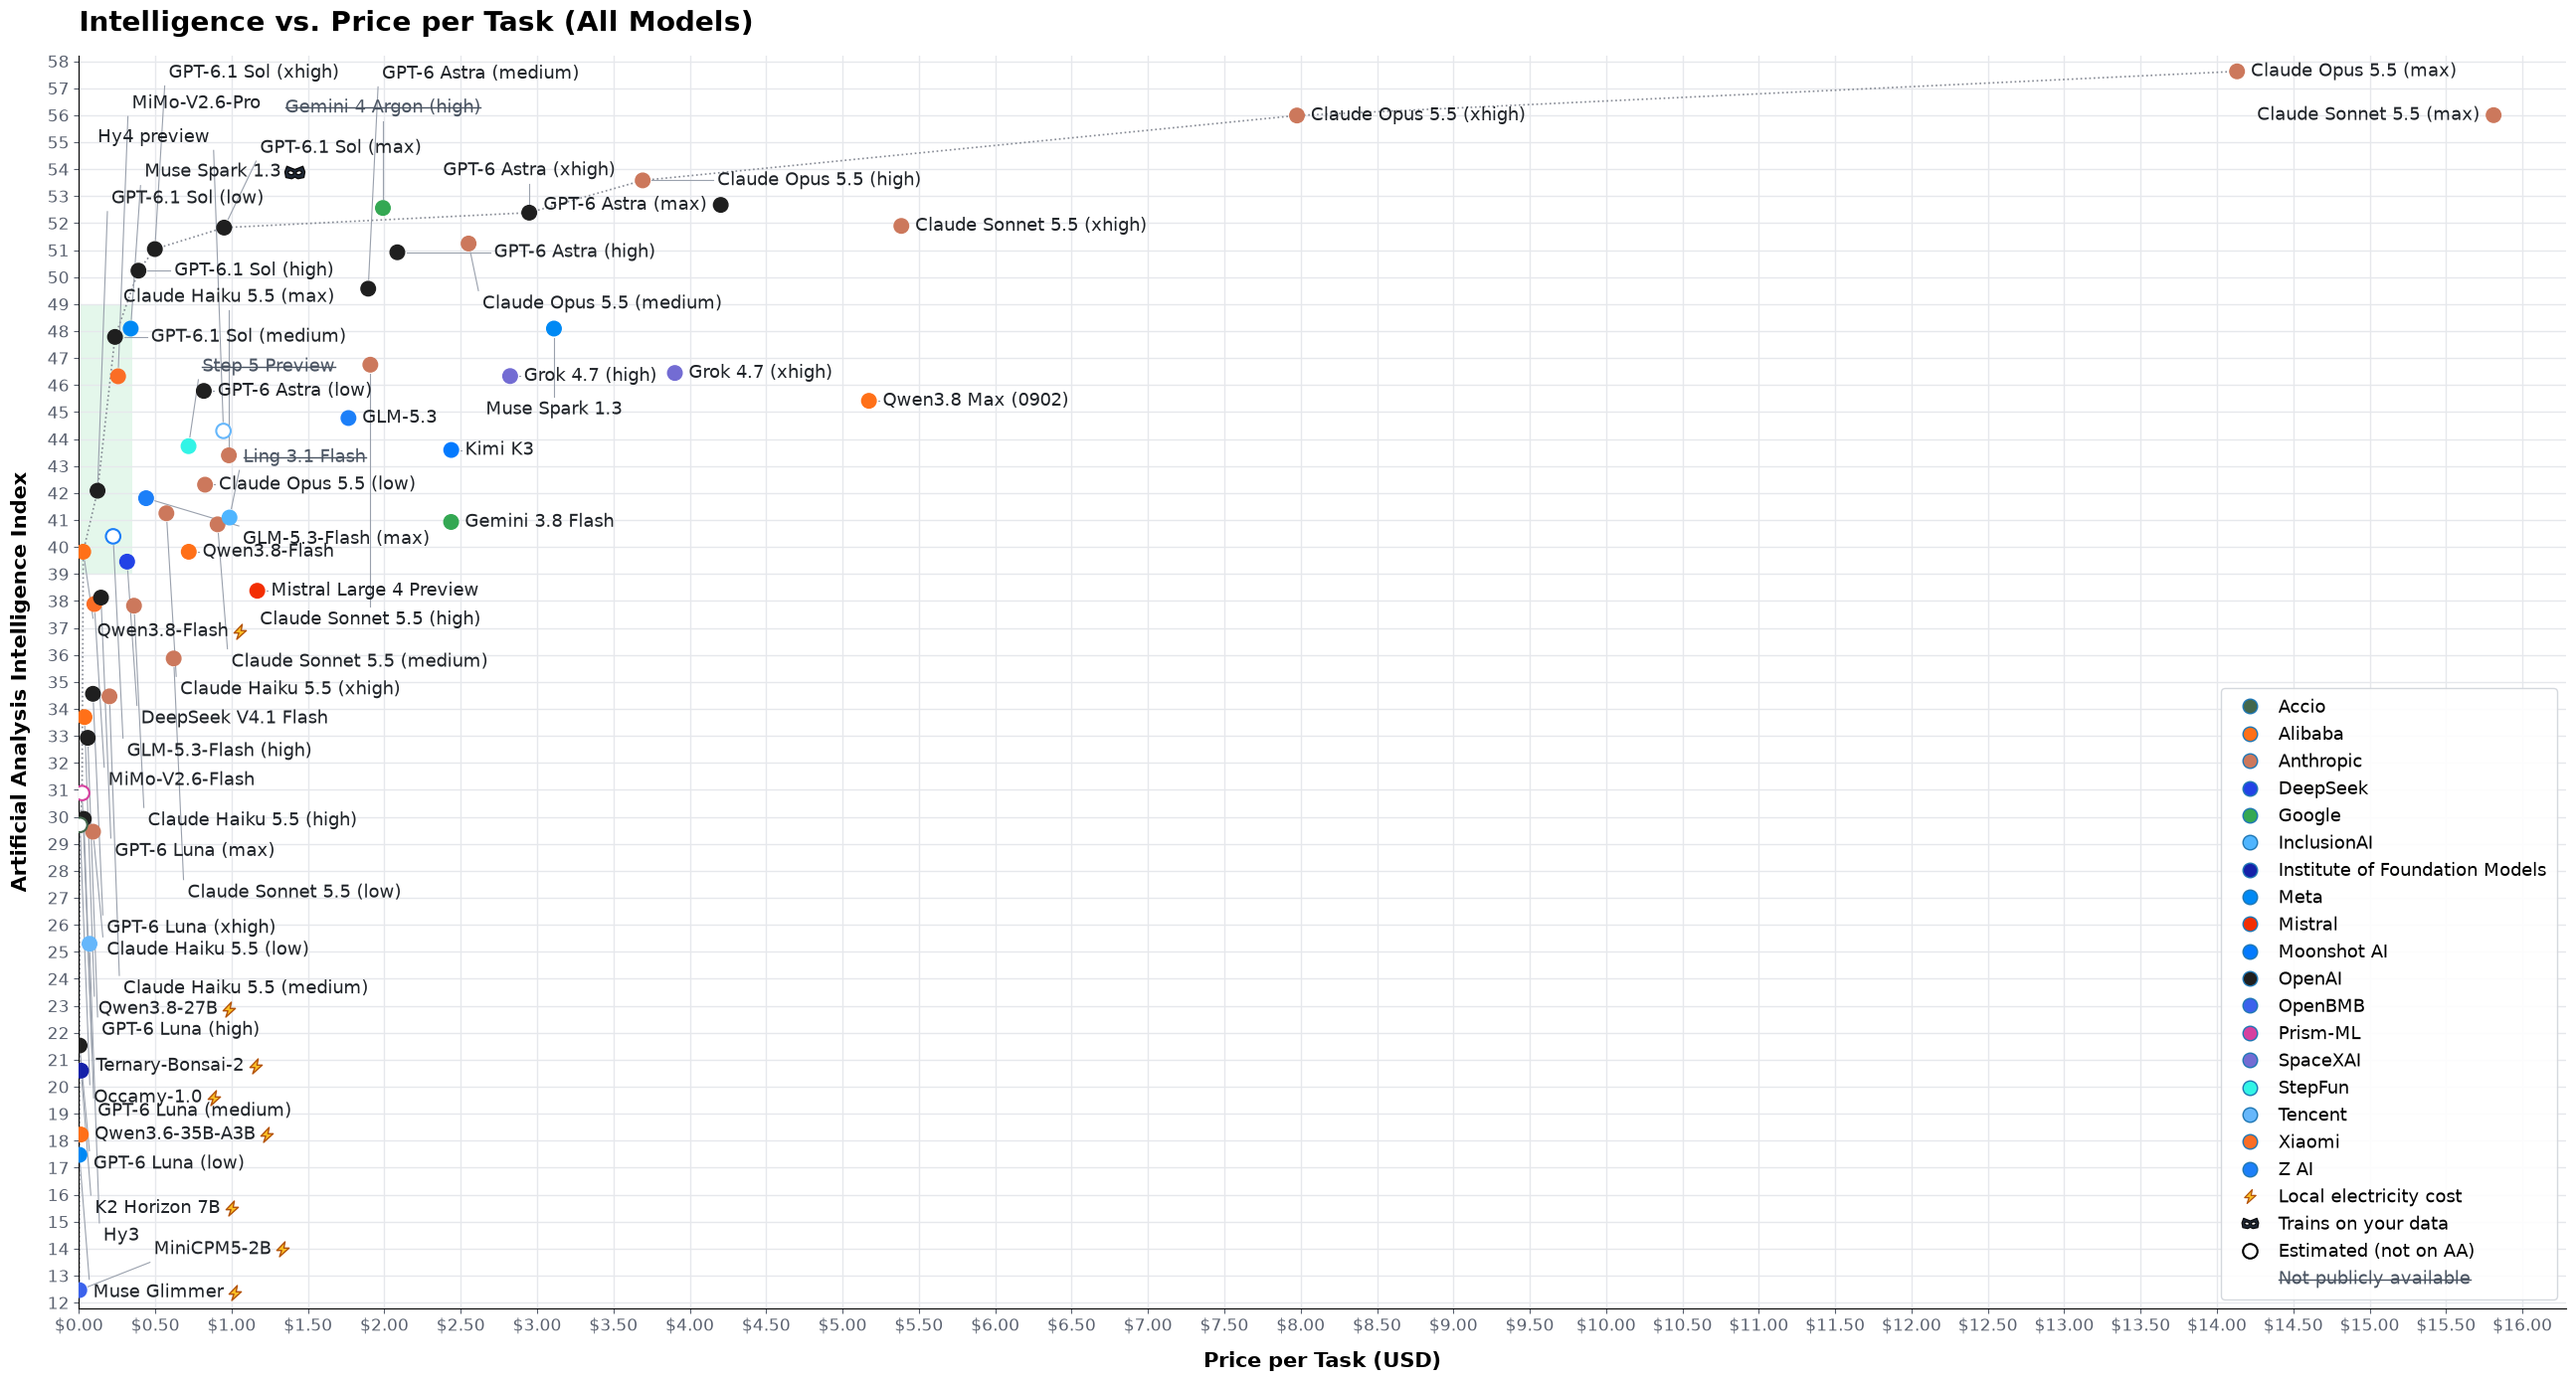
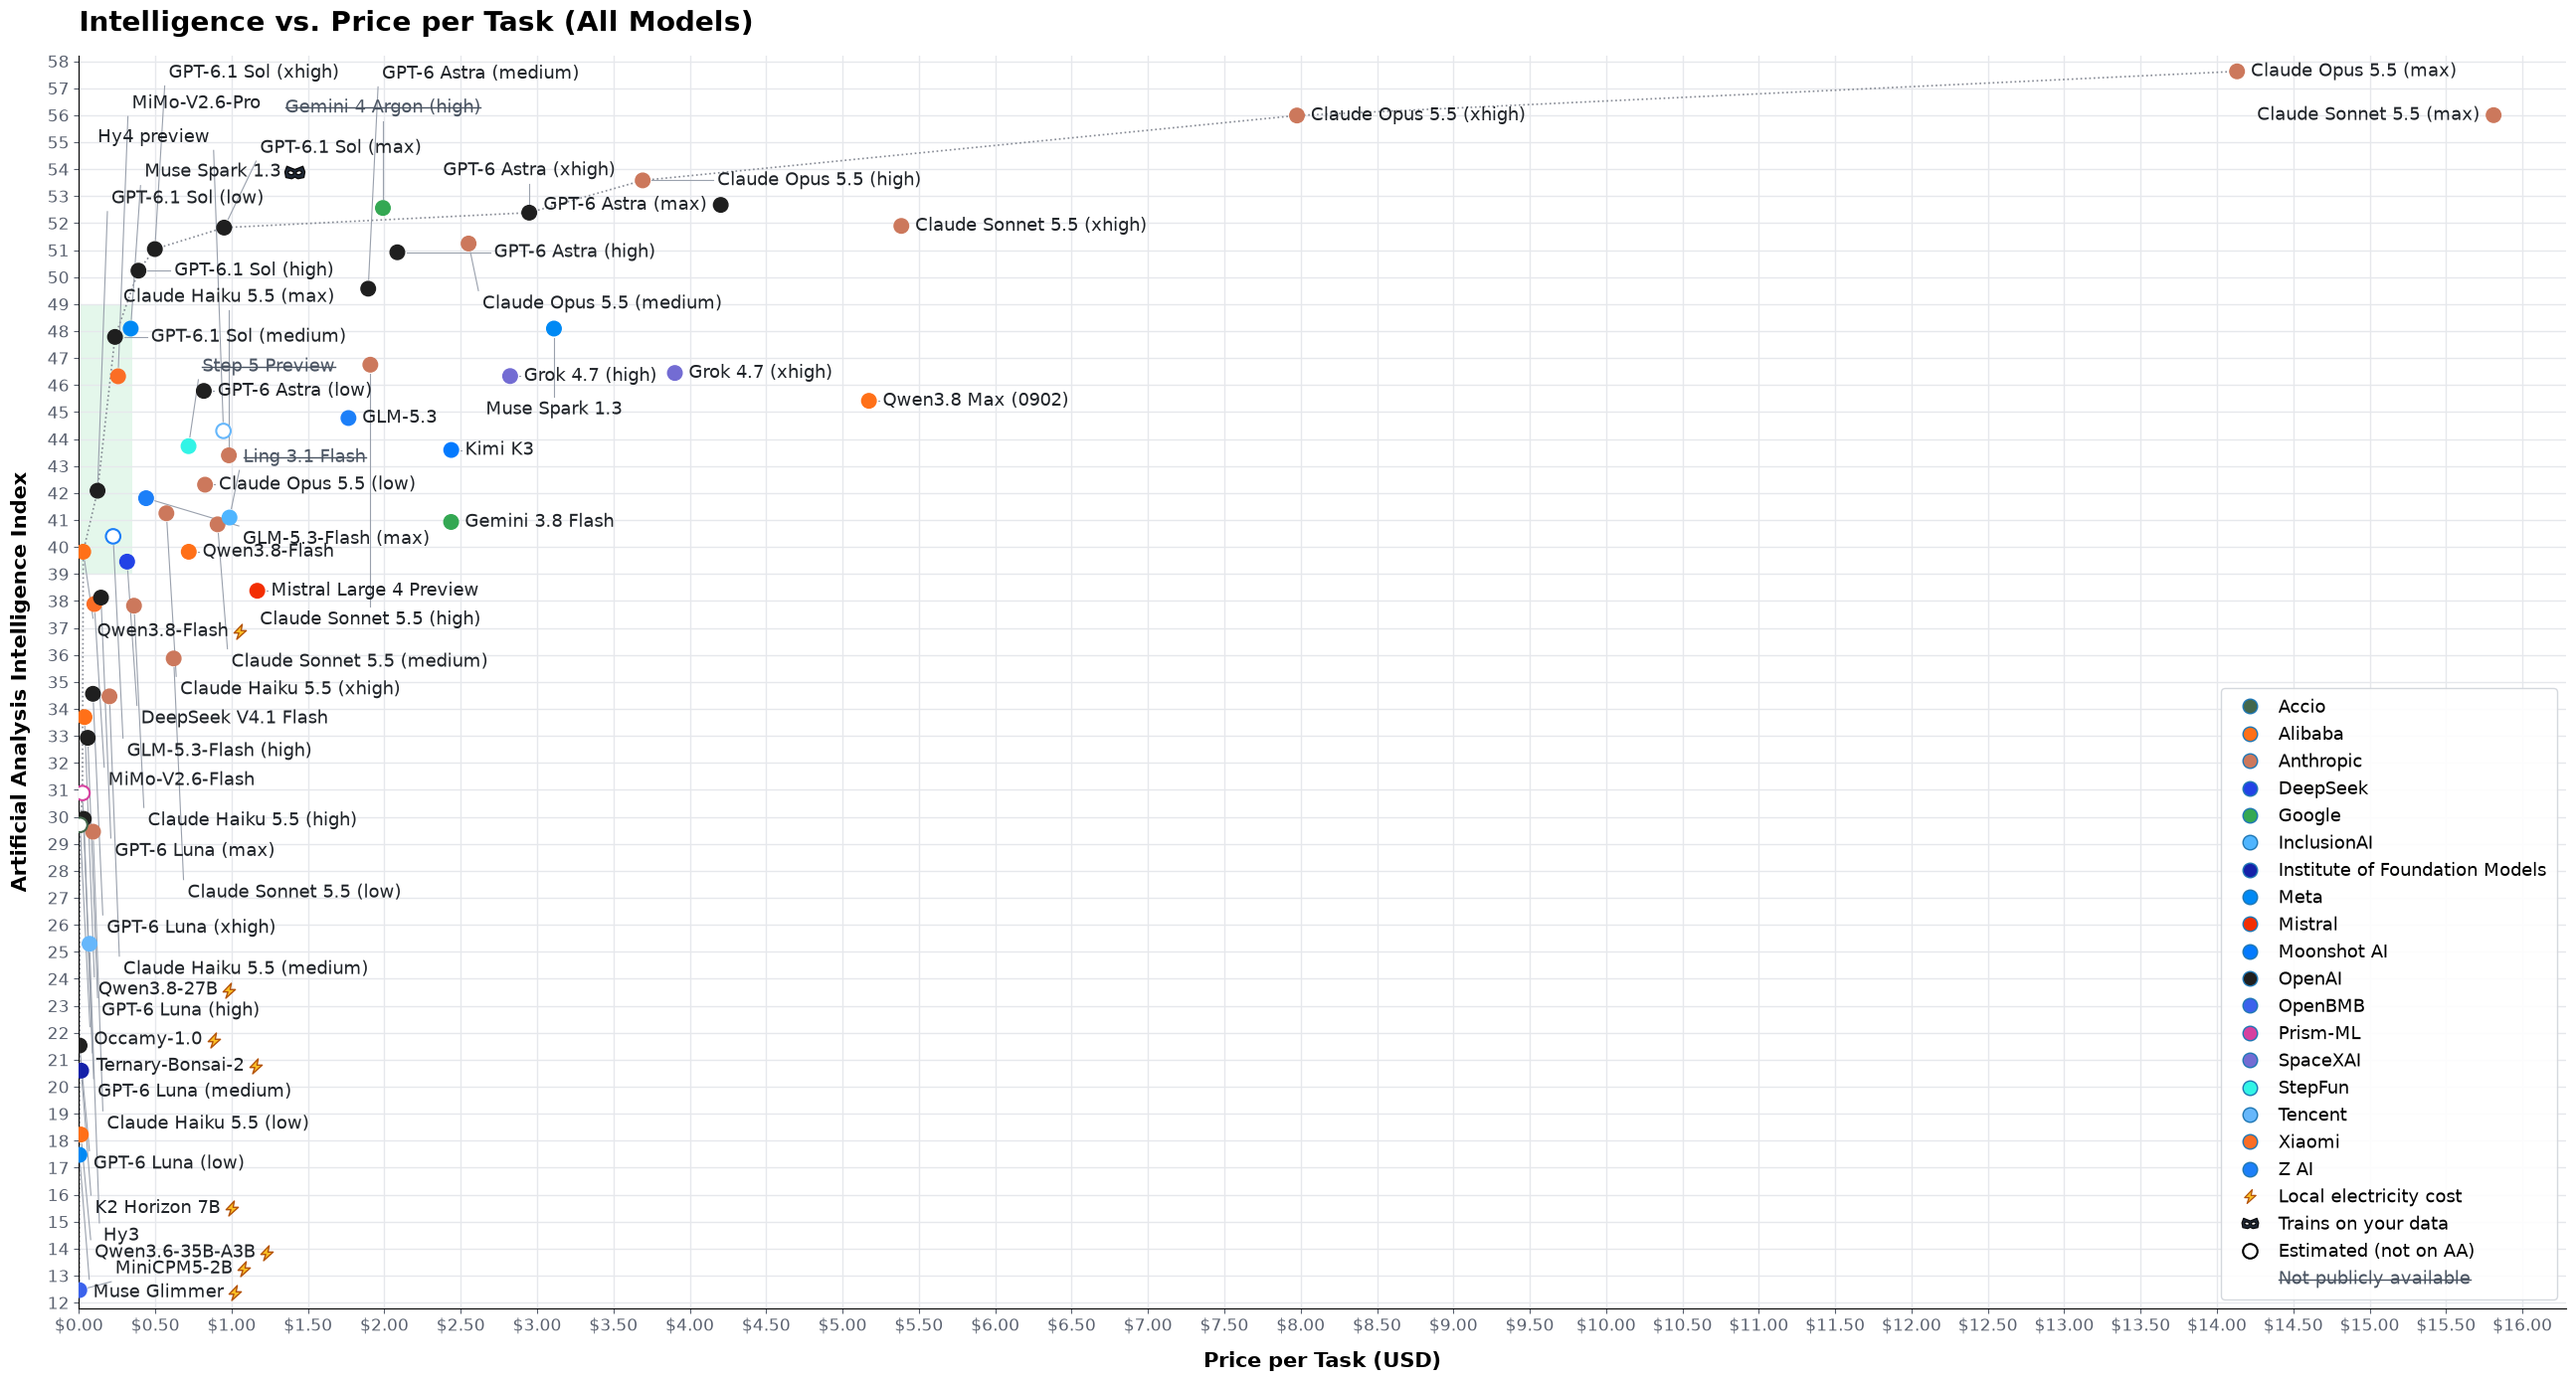
refresh input/output token ratio for local-only models

Changed region(s): [[0.0309, 0.6187, 0.1236, 0.8353], [0.0309, 0.8971, 0.1236, 0.9281]]

diff --git a/plot.py b/plot.py
@@ -318,11 +318,11 @@ class LocalSpeed(NamedTuple):
 
 # AA publishes no cost-per-task breakdown for some local models, so their
 # uncached input token count is estimated as this multiple of the output token
-# count. 3.78 is the median of (uncached input tokens / output tokens) over the
-# 34 models AA does break down; the real ratio climbs steeply as output tokens
-# fall (2.1 at max effort, 12.9 on a low-effort record), so this is a coarse
+# count. 5.72 is the median of (uncached input tokens / output tokens) over the
+# 33 models AA does break down; the real ratio climbs steeply as output tokens
+# fall (2.2 at max effort, 12.5 on a low-effort record), so this is a coarse
 # middle guess, not a per-model fit.
-LOCAL_INPUT_TOKEN_RATIO = 3.78
+LOCAL_INPUT_TOKEN_RATIO = 5.72
 
 
 class ProviderType(Enum):

diff --git a/README.md b/README.md
@@ -173,9 +173,9 @@ calculated as follows:
   Cache hits are free on your own machine, so they are excluded.
 - AA publishes no breakdown for a few of these models (MiniCPM5-2B, K2 Horizon 7B,
   Occamy-1.0, Ternary-Bonsai-2). For those, the uncached input tokens are estimated as
-  3.78× the output tokens, which is the median of that ratio over the 34 models AA
+  5.72× the output tokens, which is the median of that ratio over the 33 models AA
   does break down. It is a crude guess: the real ratio is about 2 for a max-effort
-  task and about 13 for a low-effort one.
+  task and about 12 for a low-effort one.
 - Crudely observe prefill and decode speed (tok/s) on local hardware. All measurements
   were taken on the same RTX 3090 video card from 2020, which today is relatively
   affordable at ~$1,400 (used).
